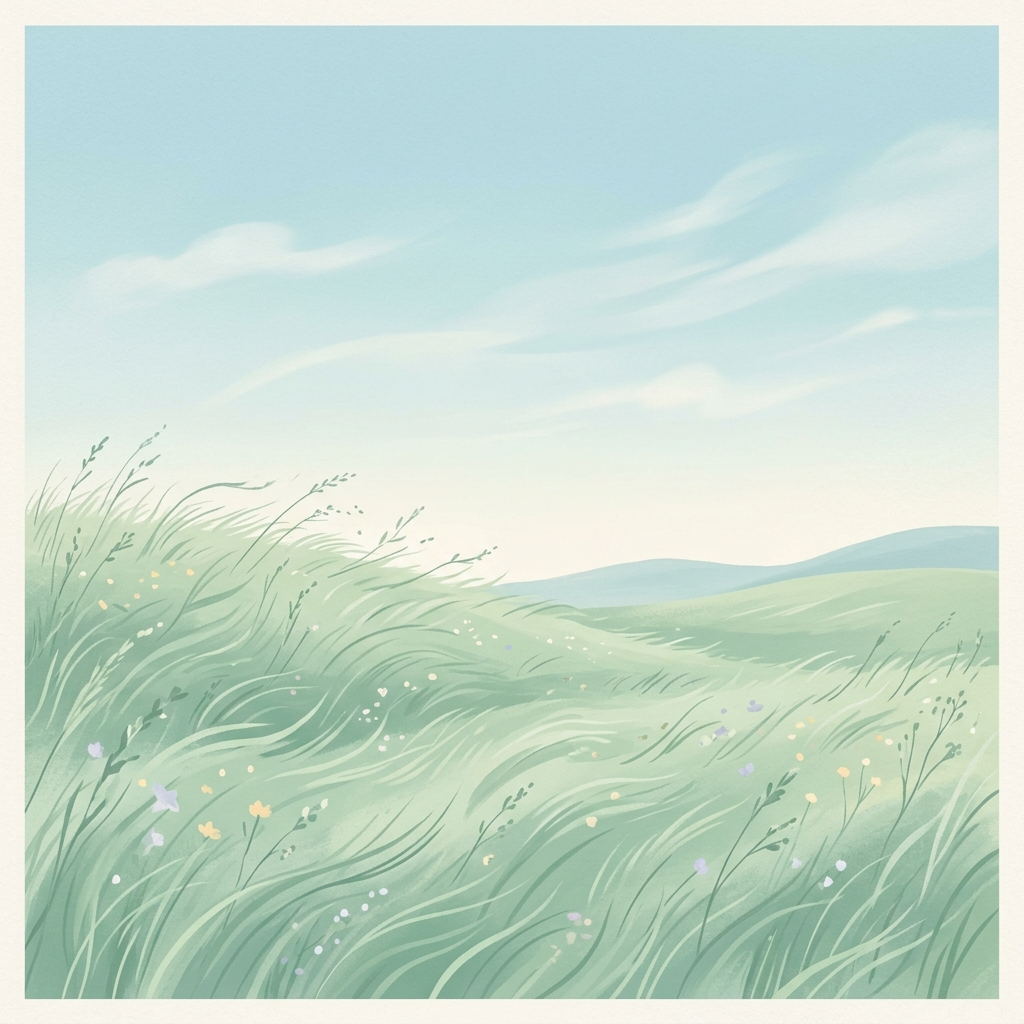
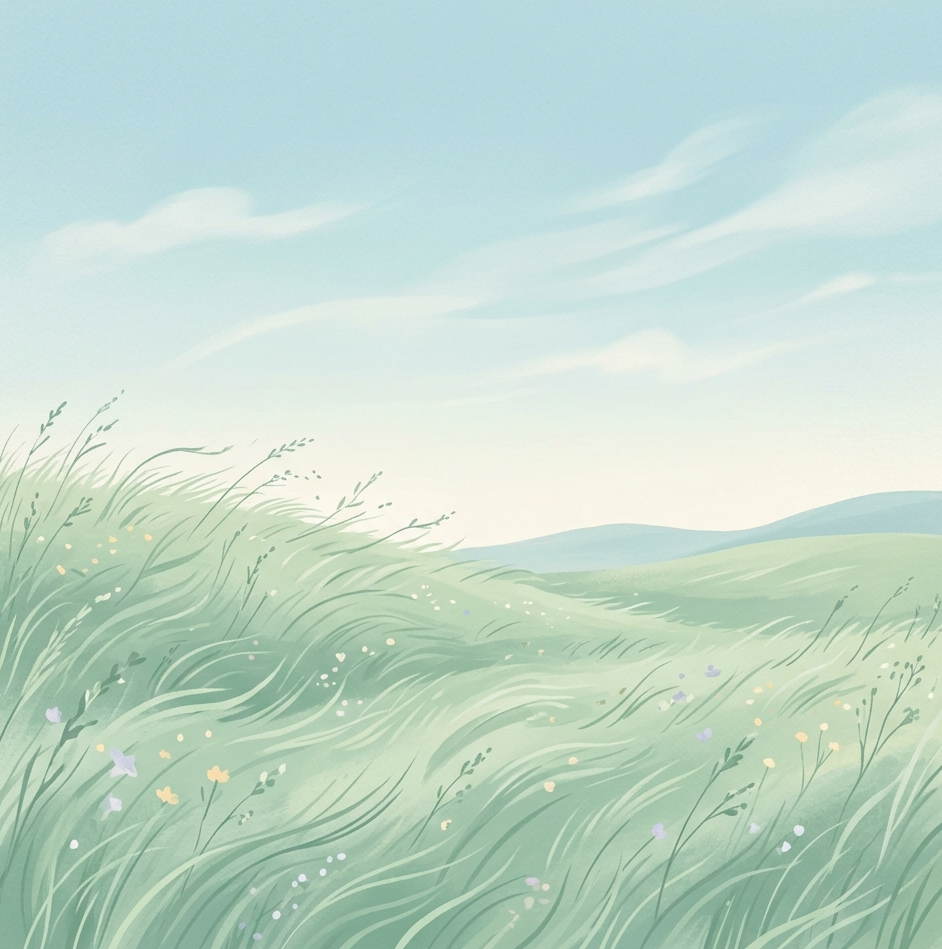
feat: add responsive utility classes and update image sources for Suasana Tenang page

diff --git a/assets/CSS/output.css b/assets/CSS/output.css
@@ -741,6 +741,9 @@
   .max-w-\[260px\] {
     max-width: 260px;
   }
+  .max-w-\[420px\] {
+    max-width: 420px;
+  }
   .max-w-\[860px\] {
     max-width: 860px;
   }
@@ -982,6 +985,9 @@
   .rounded-\[30px\] {
     border-radius: 30px;
   }
+  .rounded-\[32px\] {
+    border-radius: 32px;
+  }
   .rounded-full {
     border-radius: calc(infinity * 1px);
   }
@@ -1179,6 +1185,9 @@
   .bg-\[\#F9F8F3\] {
     background-color: #F9F8F3;
   }
+  .bg-\[\#F9F8F3\]\/40 {
+    background-color: color-mix(in oklab, #F9F8F3 40%, transparent);
+  }
   .bg-\[\#FDF6EE\] {
     background-color: #FDF6EE;
   }
@@ -1317,6 +1326,10 @@
   }
   .from-\[\#F9F8F3\]\/50 {
     --tw-gradient-from: color-mix(in oklab, #F9F8F3 50%, transparent);
+    --tw-gradient-stops: var(--tw-gradient-via-stops, var(--tw-gradient-position), var(--tw-gradient-from) var(--tw-gradient-from-position), var(--tw-gradient-to) var(--tw-gradient-to-position));
+  }
+  .from-\[\#F9F8F3\]\/70 {
+    --tw-gradient-from: color-mix(in oklab, #F9F8F3 70%, transparent);
     --tw-gradient-stops: var(--tw-gradient-via-stops, var(--tw-gradient-position), var(--tw-gradient-from) var(--tw-gradient-from-position), var(--tw-gradient-to) var(--tw-gradient-to-position));
   }
   .from-\[\#F9F8F3\]\/90 {
@@ -2830,6 +2843,11 @@
   .md\:min-h-0 {
     @media (width >= 48rem) {
       min-height: calc(var(--spacing) * 0);
+    }
+  }
+  .md\:w-1\/2 {
+    @media (width >= 48rem) {
+      width: calc(1 / 2 * 100%);
     }
   }
   .md\:w-1\/4 {

diff --git a/pages/suasana-tenang.html b/pages/suasana-tenang.html
@@ -168,11 +168,14 @@
         class="relative w-full h-[350px] md:h-[450px] bg-[#E8EBE4] rounded-[30px] overflow-hidden flex items-center p-8 md:p-16 shadow-sm border border-[#DCE0D9]"
       >
         <!-- Background Image -->
-        <img
-          src="/assets/images/suasana-tenang/banner-st.png"
-          alt=""
-          class="absolute inset-0 w-full h-full object-cover mask-right pointer-events-none "
-        />
+        <picture class="absolute inset-0 block w-full h-full pointer-events-none">
+          <source media="(max-width: 767px)" srcset="/assets/images/suasana-tenang/banner-st-mobile.png" />
+          <img
+            src="/assets/images/suasana-tenang/banner-st.png"
+            alt=""
+            class="w-full h-full object-cover mask-right pointer-events-none"
+          />
+        </picture>
         <div
           class="absolute inset-0 bg-gradient-to-r from-[#F9F8F3]/50 to-transparent pointer-events-none"
         ></div>

diff --git a/index.html b/index.html
@@ -161,7 +161,7 @@
                                 yang unik, tulis cerita harianmu dalam jurnal rahasia, dan terima saran aktivitas kustom
                                 pengembang emosimu secara instan.
                             </p>
-                            <a href="t-mood.html"
+                            <a href="/pages/t-mood.html"
                                 class="text-[#D9A15C] text-sm mt-3 md:inline-block hidden justify-end">Buka
                                 Tracker Mood →</a>
 
@@ -179,13 +179,13 @@
                                     class="w-full h-full object-contain">
                             </div>
                             <div class="text-center sm:text-left">
-                                <h2 class="text-xl sm:text-2xl font-bold text-[#D9A15C] mb-2">2. Pendamping Belajar</h2>
+                                <h2 class="text-xl sm:text-2xl font-bold text-[#D9A15C] mb-2">2. Mulai Belajar</h2>
                                 <p class="font-semibold text-white text-sm leading-relaxed text-justify">
                                     Watcher otomatis yang melacak durasi belajar harian, sehatmu, memberi alarm jeda
                                     istirahat peregangan, serta menghitung risiko waktu tidur ideal agar tidak mengantuk
                                     di kelas esok pagi.
                                 </p>
-                                <a href="#" class="text-[#D9A15C] text-sm mt-3 md:inline-block hidden justify-end">Alur
+                                <a href="/pages/mulai-belajar.html" class="text-[#D9A15C] text-sm mt-3 md:inline-block hidden justify-end">Alur
                                     Waktu Belajar →</a>
                             </div>
                         </div>
@@ -201,13 +201,13 @@
                     <div
                         class="bg-gradient-to-r from-[#315543] to-[#1b553d] rounded-3xl p-6 sm:p-8 flex flex-col sm:flex-row items-center sm:items-start justify-between gap-6 animate-fade-in-up delay-300 hover:scale-[1.01] hover:shadow-xl transition-all duration-300">
                         <div class="max-w-xl text-center sm:text-left">
-                            <h2 class="text-xl sm:text-2xl font-bold text-[#D9A15C] mb-2">3. Sudut Ambience Space</h2>
+                            <h2 class="text-xl sm:text-2xl font-bold text-[#D9A15C] mb-2">3. Suasana Tenang</h2>
                             <p class="font-semibold text-white text-sm leading-relaxed text-justify">
                                 Temukan ketenangan jiwa yang mendalam di sela padatnya jadwal pelajaran sekolah. Mainkan
                                 instrumen lo-fi akustik atau gemericik hujan harian, dan kendalikan kecemasanmu melalui
                                 panduan meditasi pernapasan kotak ("Box Breathing") teratur.
                             </p>
-                            <a href="#" class="text-[#D9A15C] text-sm mt-3 md:inline-block hidden">Buka Ambience Space
+                            <a href="/pages/suasana-tenang.html" class="text-[#D9A15C] text-sm mt-3 md:inline-block hidden">Buka Ambience Space
                                 →</a>
                         </div>
                         <div class="shrink-0">